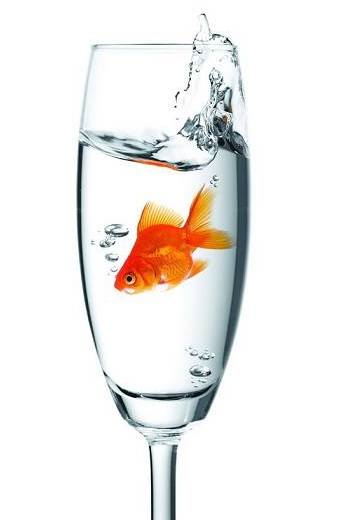
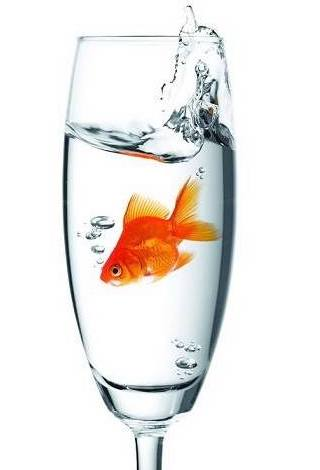
Add files via upload
Tweaked front page image, schedule page image. 
Changed color on links for better readability.

Changed region(s): [[0.1875, 0.0, 0.75, 1.0]]

diff --git a/OurService.html b/OurService.html
@@ -23,8 +23,10 @@
     </div>
     <div class="main">
         <h2>Frugal Innovation</h2>
-        <p>Frugal innovation is value-sensitive design and marketing strategies that bring relatively sophisticated products, services and systems within the reach of the billions of poorer and emerging new middle class consumers.
-          We create good-quality solutions that deliver the greatest value to our customers at the lowest cost. We take care of your pocket, staff, time and energy. We value your needs and interest.
+        <p1>Frugal innovation is <b>value-sensitive</b> design and marketing strategies that bring relatively sophisticated products, services and systems within the reach of the billions of poorer and emerging new middle class consumers.</p1>
+        <br>
+        <br>
+        <p2>We create good-quality solutions that deliver the greatest value to our customers at the lowest cost. We take care of your pocket, staff, time and energy. <br><br>We value your needs and interest.</p2>
         </p>
     </div>
     </div>

diff --git a/innocamps.html b/innocamps.html
@@ -26,7 +26,7 @@
         <div class="main">
           <h2>Innovation Camps</h2>
           <p>Our company organizes Innovation Camps, where you can meet partners, represent your idea and to find new clients.
-          For ordering place at the Innovation Camp, check our <a href="#">schedule</a>
+          <br><br>For securing a spot at our Innovation Camp, check our <a href="schedule.html">schedule</a>
           </p>
         </div>
   </div>

diff --git a/responsive.css b/responsive.css
@@ -76,7 +76,7 @@ a:visited {
 
 /* mouse over link */
 a:hover {
-  color: hotpink;
+  color: lightpink;
 }
 
 /* selected link */
@@ -115,7 +115,7 @@ a:active {
   color: white;
   background-color: #0000ff;
   background-image: linear-gradient(45deg, #ff8f29,#243fff);
-  padding: 60px;
+  padding: 100px;
 }
 
 /* Mutual style for all images
